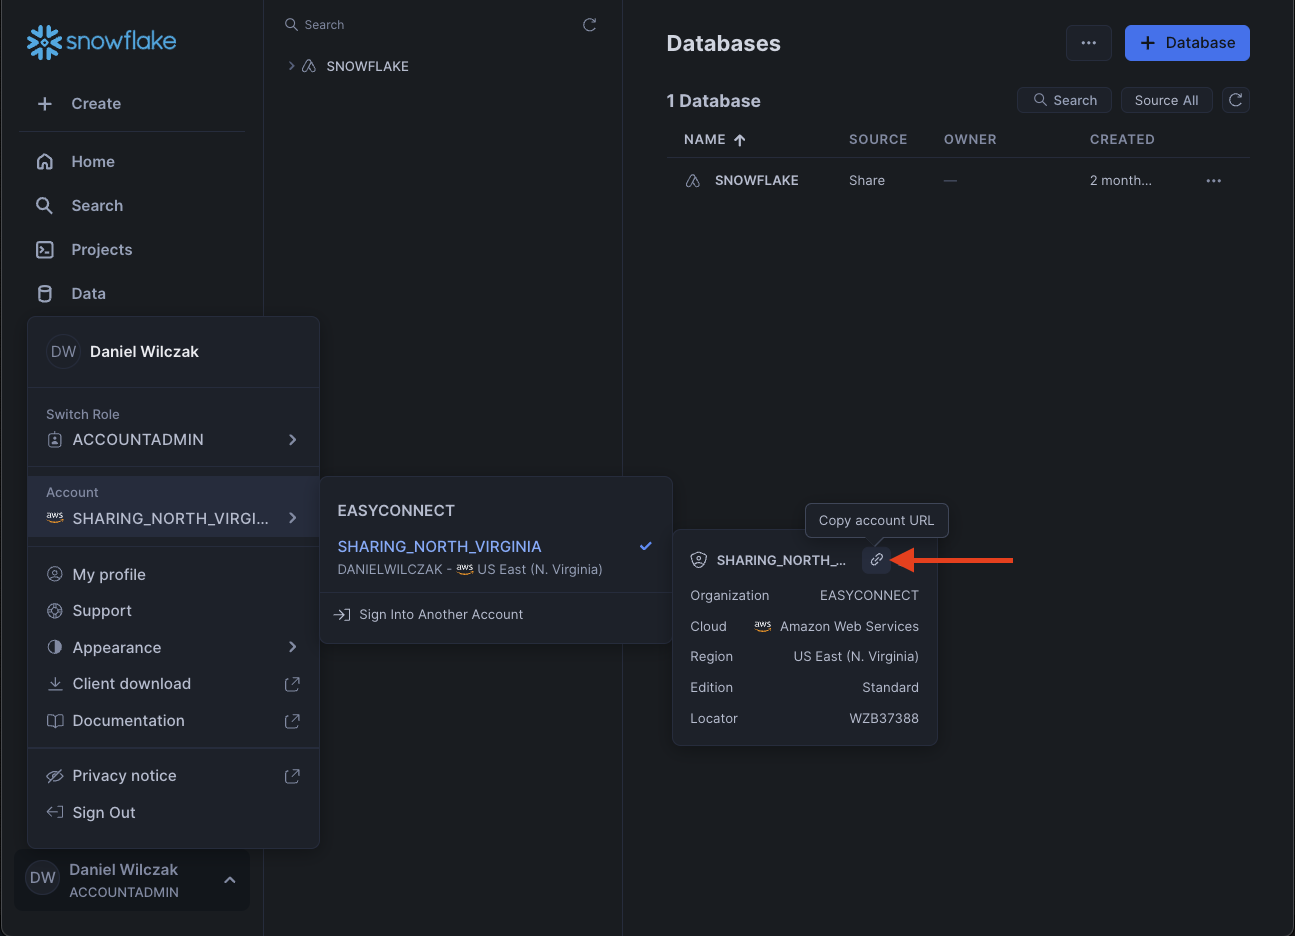
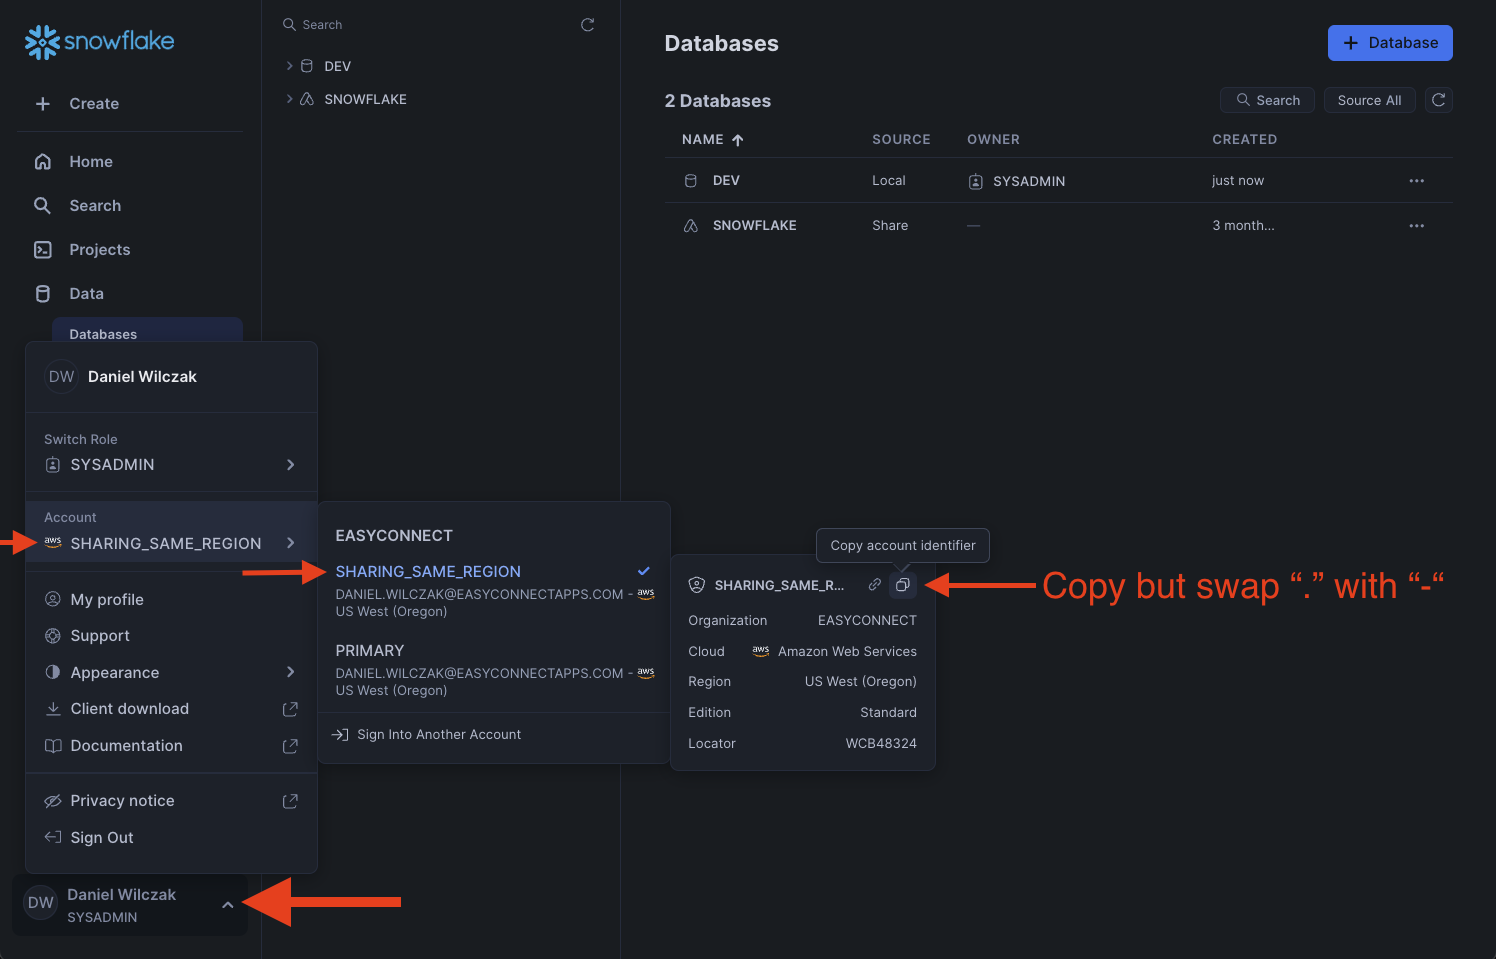
Updated.

diff --git a/docs/snowflake/jupyter/introduction/index.md b/docs/snowflake/jupyter/introduction/index.md
@@ -75,11 +75,10 @@ Lets create the table we'll query later in the notebook.
     ```
 
 
-We'll want get our accout url but only grabbing the first part of it before the ``.snowflakecomputing.com`` part. Please read the [Account Identifiers](https://docs.snowflake.com/en/user-guide/admin-account-identifier#non-vps-account-locator-formats-by-cloud-platform-and-region) documentation to learn how to format your account locator based on your region. 
-
+To add our development environment we'll want to get our account identifier. 
 ![Account URL](images/07.png)
 
-In the notebook we'll have to update our connectection parameters.
+In the notebook we'll have to update our connectection parameters. Once pasted we'll make sure we replace the ``.`` with a ``-`` otherwise it won't connect to the account.
 === ":octicons-image-16: Setup"
 
     ```python linenums="1"

diff --git a/docs/dbt/setup/index.md b/docs/dbt/setup/index.md
@@ -94,13 +94,13 @@ First lets start in Snowflake by setting up some resources. We'll create one dat
     ```
 
 ## Development :octicons-feed-tag-16:
-Lets walk through the development envirement setup in dbt. 
+Lets walk through the development environment setup in dbt. 
 
 ### Project
 As soon on you login you'll be asked to start a project and give it a name.
 ![project](images/01.png)
 
-We'll want to add our development envirement connection to Snowflake.
+We'll want to add our development environment connection to Snowflake.
 ![add connection](images/02.png)
 
 ### Snowflake
